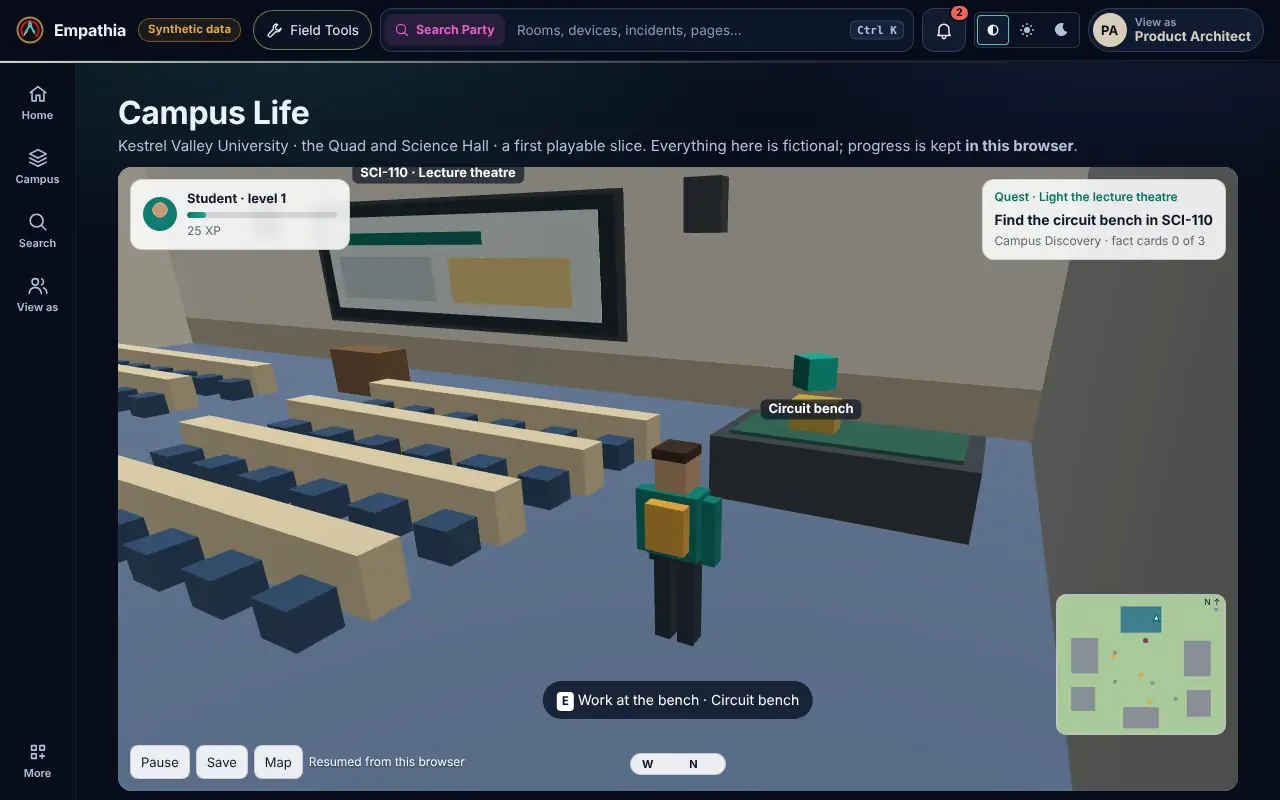
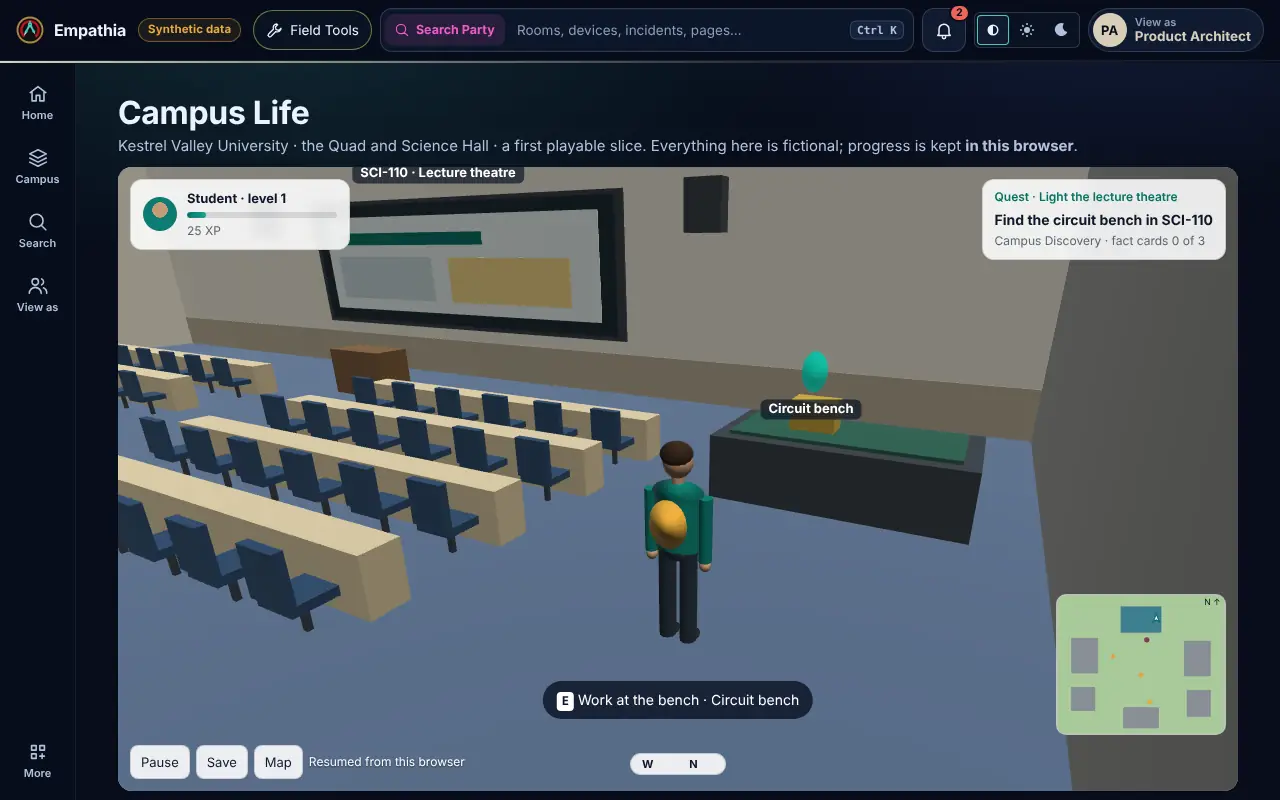
Campus Life looks less like a prototype: rounded people, round trees, lamps and fountain, chairs with backs (task #215, first pass)
Founder, 18 Nov 2026, 09:51: "proper character models and animations … richer lecture theatre details … landscaping".
- play/gl.ts: smooth spheres and cylinders (baked, or as unit meshes drawn with a matrix), each triangle wound by its normal
- people: rounded hips, body, shoulders, head and hair; limbs as tubes with hands and shoes that follow the swing
- the Quad: trees of three overlapping crowns on round trunks, round lamp posts with glowing globes, a round fountain column and
  bowl; collisions unchanged (the same solids)
- SCI-110: chairs with seats, backs and stems; the quest marker a glowing gem; Professor Calder no longer stands behind a lamp
- the game keeps real time down to 10 frames a second (its step was capped at 20); CL-02 now measures walking and running pace
  while the keys are held (frame-rate independent) as well as the ground covered
- the website's capture of Campus Life (and the others) retaken; PROVENANCE.json updated

Verified: demo-campus-life 18/18 light and dark (twice in light); demo-stadium-live 14/14; demo-expo-live 12/12; website 255/0.

Claude-Session: https://claude.ai/code/session_01RMXk1jVqvE4J2bVn1EY9vx

Changed region(s): [[0.0938, 0.4375, 0.5625, 0.8125], [0.0938, 0.625, 0.2812, 0.8125], [0.5938, 0.4375, 0.6562, 0.5]]

diff --git a/apps/demo/src/play/world.ts b/apps/demo/src/play/world.ts
@@ -6,7 +6,9 @@
  * Solids are what a person cannot walk through (walls, furniture, trees, the closed door); `roof` boxes are hidden while the player is
  * inside, so the camera sees in. The world's edge is a hedge and a hard boundary.
  */
-import type { Box, V3 } from './gl.js';
+import { cylinderVerts, sphereVerts, type Box, type V3 } from './gl.js';
+/** round things (trees, lamps, the fountain) baked as smooth geometry beside the boxes */
+export const round: number[] = [];
 
 export interface Solid { min: V3; max: V3; id: string }
 export interface Thing { id: string; kind: 'npc' | 'card' | 'bench' | 'door' | 'screen' | 'sign'; at: [number, number]; r: number; label: string; prompt: string }
@@ -32,7 +34,7 @@ add([-22, 0.015, -16], [22, 0.035, -14], C.path); add([-22, 0.015, 14], [22, 0.0
 add([-4, 0.02, -24], [4, 0.04, -20], C.stone);   // the Science Hall forecourt
 // the fountain at the Quad's centre: a ring of stone and still water
 add([-3, 0, -3], [3, 0.6, -2.4], C.stone, { solid: 'fountain' }); add([-3, 0, 2.4], [3, 0.6, 3], C.stone, { solid: 'fountain' }); add([-3, 0, -2.4], [-2.4, 0.6, 2.4], C.stone, { solid: 'fountain' }); add([2.4, 0, -2.4], [3, 0.6, 2.4], C.stone, { solid: 'fountain' });
-add([-2.4, 0, -2.4], [2.4, 0.4, 2.4], '#4E8FB0', { solid: 'fountain' }); add([-0.4, 0, -0.4], [0.4, 1.8, 0.4], C.stone, { solid: 'fountain' });
+add([-2.4, 0, -2.4], [2.4, 0.4, 2.4], '#4E8FB0', { solid: 'fountain' }); solids.push({ min: [-0.4, 0, -0.4], max: [0.4, 1.8, 0.4], id: 'fountain' }); cylinderVerts(0, 0, 0.35, 0.35, 0, 1.6, C.stone, round, 12); cylinderVerts(0, 0, 1.0, 1.0, 1.4, 1.55, C.stone, round, 16); sphereVerts([0, 1.85, 0], [0.3, 0.3, 0.3], C.stone, round);
 
 // Science Hall: walls with a doorway in the front, a lobby, an inner wall with an open way into SCI-110
 const H = HALL; const t = 0.4;
@@ -52,7 +54,7 @@ add([2.5, 3.0, H.inner - 0.2], [5.5, 4.2, H.inner + 0.2], C.wall, { solid: 'inne
 // SCI-110, the lecture theatre: carpet, rows of desks and seats, the lectern, the projection screen, loudspeakers and a camera, the circuit bench
 add([H.x0 + t, 0.05, H.z0 + t], [H.x1 - t, 0.07, H.inner - 0.2], C.carpet);
 for (let row = 0; row < 4; row++) { const z = -32.5 - row * 1.7 + 0; for (const [a, b] of [[-11, -2.5], [1.5, 8]] as Array<[number, number]>) {
-  add([a, 0, z - 0.35], [b, 0.75, z + 0.1], C.desk, { solid: 'desk' }); for (let x = a + 0.6; x < b; x += 1.1) add([x - 0.25, 0, z + 0.25], [x + 0.25, 0.48, z + 0.7], C.seat);
+  add([a, 0, z - 0.35], [b, 0.75, z + 0.1], C.desk, { solid: 'desk' }); for (let x = a + 0.6; x < b; x += 1.1) { add([x - 0.24, 0.38, z + 0.22], [x + 0.24, 0.48, z + 0.66], C.seat); add([x - 0.24, 0.48, z + 0.6], [x + 0.24, 1.0, z + 0.7], C.seat); add([x - 0.03, 0, z + 0.4], [x + 0.03, 0.38, z + 0.46], C.metal); }
 } }
 add([-1.2, 0, -39.4], [0.4, 1.1, -38.6], C.bench, { solid: 'lectern' });
 add([-5, 1.4, -41.5], [5, 4.4, -41.45], C.screen); add([-4.6, 1.7, -41.45], [4.6, 4.1, -41.42], '#E9F1F4'); add([-4.2, 3.4, -41.42], [1.2, 3.7, -41.4], '#0A7268'); add([-4.2, 2.0, -41.42], [-0.6, 3.1, -41.4], '#C7D7DE'); add([0.0, 2.0, -41.42], [3.8, 3.1, -41.4], '#F2D58A'); add([-5.2, 1.3, -41.55], [5.2, 4.5, -41.5], C.metal);
@@ -79,17 +81,18 @@ signs.push({ at: [0, 7.9, -23.6], text: 'Science Hall', sub: 'SCI-110 lecture th
   { at: [0, 8.6, 27.6], text: 'Student Union', sub: 'dining · societies · shuttle' }, { at: [-31.6, 6, 22], text: 'Arts Hall', sub: 'opens in a later release' }, { at: [31.6, 8, 25], text: 'Residence Court', sub: 'opens in a later release' });
 
 // trees, benches and lamps around the Quad; the hedge at the edge
-const tree = (x: number, z: number, s = 1) => { add([x - 0.25, 0, z - 0.25], [x + 0.25, 2.2 * s, z + 0.25], C.trunk, { solid: 'tree' }); add([x - 1.6 * s, 2 * s, z - 1.6 * s], [x + 1.6 * s, 3.6 * s, z + 1.6 * s], C.leaf); add([x - 1.1 * s, 3.5 * s, z - 1.1 * s], [x + 1.1 * s, 4.6 * s, z + 1.1 * s], C.leaf2); };
+const tree = (x: number, z: number, s = 1) => { solids.push({ min: [x - 0.25, 0, z - 0.25], max: [x + 0.25, 2.2 * s, z + 0.25], id: 'tree' }); cylinderVerts(x, z, 0.22 * s, 0.22 * s, 0, 2.6 * s, C.trunk, round, 10, false);
+  const k = ((x * 7 + z * 13) % 3 + 3) % 3; sphereVerts([x, 3.4 * s, z], [1.9 * s, 1.5 * s, 1.9 * s], k ? C.leaf : C.leaf2, round); sphereVerts([x + 0.7 * s, 4.2 * s, z - 0.4 * s], [1.3 * s, 1.1 * s, 1.3 * s], k ? C.leaf2 : C.leaf, round); sphereVerts([x - 0.8 * s, 3.9 * s, z + 0.6 * s], [1.1 * s, 0.95 * s, 1.1 * s], '#6AA857', round); };
 for (const [x, z] of [[-18, -10], [-18, 10], [18, -10], [18, 10], [-8, -11], [8, 11], [-26, 20], [26, -22], [-26, -24], [24, 22], [-40, 40], [40, 40], [-52, -40], [52, -40], [14, -30], [-20, -30]] as Array<[number, number]>) tree(x, z, 0.9 + ((x * 7 + z * 13) % 5 + 5) % 5 * 0.06);
 const benchAt = (x: number, z: number, along: 'x' | 'z') => along === 'x' ? add([x - 1, 0, z - 0.3], [x + 1, 0.5, z + 0.3], C.bench, { solid: 'bench-seat' }) : add([x - 0.3, 0, z - 1], [x + 0.3, 0.5, z + 1], C.bench, { solid: 'bench-seat' });
 benchAt(-8, -5, 'x'); benchAt(8, 5, 'x'); benchAt(-12, 6, 'z'); benchAt(12, -6, 'z');
-for (const [x, z] of [[-3, -18], [3, -18], [-3, 10], [3, 10], [-14, 3], [14, -3]] as Array<[number, number]>) { add([x - 0.08, 0, z - 0.08], [x + 0.08, 3.6, z + 0.08], C.metal, { solid: 'lamp' }); add([x - 0.25, 3.6, z - 0.25], [x + 0.25, 3.9, z + 0.25], '#F2E7C4'); }
+for (const [x, z] of [[-3, -18], [3, -18], [-3, 10], [3, 10], [-14, 3], [14, -3]] as Array<[number, number]>) { solids.push({ min: [x - 0.08, 0, z - 0.08], max: [x + 0.08, 3.6, z + 0.08], id: 'lamp' }); cylinderVerts(x, z, 0.07, 0.07, 0, 3.6, C.metal, round, 8); cylinderVerts(x, z, 0.16, 0.16, 0, 0.35, C.metal, round, 8); sphereVerts([x, 3.85, z], [0.26, 0.26, 0.26], '#F7EED2', round); }
 add([WORLD.minX, 0, WORLD.minZ - 1], [WORLD.maxX, 1.1, WORLD.minZ], C.hedge, { solid: 'edge' }); add([WORLD.minX, 0, WORLD.maxZ], [WORLD.maxX, 1.1, WORLD.maxZ + 1], C.hedge, { solid: 'edge' });
 add([WORLD.minX - 1, 0, WORLD.minZ], [WORLD.minX, 1.1, WORLD.maxZ], C.hedge, { solid: 'edge' }); add([WORLD.maxX, 0, WORLD.minZ], [WORLD.maxX + 1, 1.1, WORLD.maxZ], C.hedge, { solid: 'edge' });
 
 /** the Science Hall door: two leaves that slide apart; solid while closed */
 export const DOOR = { x0: H.door[0], x1: H.door[1], z: H.z1 - t / 2, h: 3.2, color: '#2C4E57' };
-export const NPC = { x: 3.2, z: -18.5, yaw: Math.PI * 0.85, name: 'Professor Ines Calder', role: 'Circuits and Signals, Science Hall', colors: { body: '#7A3E5C', legs: '#2E3440', skin: '#B98A6B', hair: '#2B2321' } };
+export const NPC = { x: 4.0, z: -19.0, yaw: Math.PI * 0.85, name: 'Professor Ines Calder', role: 'Circuits and Signals, Science Hall', colors: { body: '#7A3E5C', legs: '#2E3440', skin: '#B98A6B', hair: '#2B2321' } };
 export const CARDS: Array<{ id: string; at: [number, number]; title: string; fact: string }> = [
   { id: 'fountain', at: [0, 5.5], title: 'The Quad fountain', fact: 'Kestrel Valley’s fountain is fed by rainwater from the Science Hall roof. (A fictional campus fact.)' },
   { id: 'oak', at: [-19.5, -7.5], title: 'The founders’ trees', fact: 'Each tree on the Quad was planted by a graduating class. The oldest stands by the library path. (Fictional.)' },

diff --git a/apps/demo/src/play/CampusLife.tsx b/apps/demo/src/play/CampusLife.tsx
@@ -10,7 +10,7 @@
  */
 import { useCallback, useEffect, useMemo, useRef, useState, type PointerEvent as RPE, type ReactElement } from 'react';
 import { Renderer, boxVerts, hex, m4, type M4, type V3 } from './gl.js';
-import { boxes, CARDS, DOOR, HALL, NPC, BENCH, signs, WORLD, inHall } from './world.js';
+import { boxes, round, CARDS, DOOR, HALL, NPC, BENCH, signs, WORLD, inHall } from './world.js';
 import { act, camera, fresh, fromSave, level, reach, solved, step, STAGES, toSave, type Input, type Reach, type State } from './sim.js';
 import { QUEST } from '../worlds/university/data.public.js';
 
@@ -28,18 +28,22 @@ const WALKERS: Array<{ loop: Array<[number, number]>; speed: number; phase: numb
 
 function person(r: Renderer, x: number, z: number, yaw: number, walk: number, speed: number, col: Record<string, string>, reduced: boolean, alpha = 1) {
   const sw = reduced ? 0 : Math.sin(walk) * Math.min(0.75, speed / 5); const bob = reduced ? 0 : Math.abs(Math.sin(walk)) * 0.04 * Math.min(1, speed / 3);
-  const fwd = (d: number): V3 => [x + Math.sin(yaw) * d, 0, z + Math.cos(yaw) * d]; const side = (d: number, y: number): V3 => [x + Math.cos(yaw) * d, y + bob, z - Math.sin(yaw) * d];
-  void fwd;
-  r.draw(r.unit, m4.trs([x, 1.18 + bob, z], yaw, [0.46, 0.56, 0.26]), hex(col['body']!), alpha);
-  r.draw(r.unit, m4.trs([x, 0.9 + bob, z], yaw, [0.42, 0.12, 0.24]), hex(col['legs']!), alpha);
-  r.draw(r.unit, m4.trs([x, 1.62 + bob, z], yaw, [0.27, 0.28, 0.27]), hex(col['skin']!), alpha);
-  r.draw(r.unit, m4.trs([x - Math.sin(yaw) * 0.02, 1.79 + bob, z - Math.cos(yaw) * 0.02], yaw, [0.29, 0.08, 0.29]), hex(col['hair']!), alpha);
-  if (col['bag']) r.draw(r.unit, m4.trs([x - Math.sin(yaw) * 0.19, 1.2 + bob, z - Math.cos(yaw) * 0.19], yaw, [0.34, 0.4, 0.12]), hex(col['bag']!), alpha);
-  for (const s of [-1, 1]) {
-    r.draw(r.unit, m4.limb(side(0.11 * s, 0.86), yaw, sw * s, [0.15, 0.84, 0.17]), hex(col['legs']!), alpha);
-    r.draw(r.unit, m4.limb(side(0.3 * s, 1.43), yaw, -sw * s * 0.8, [0.12, 0.56, 0.13]), hex(col['body']!), alpha);
-  }
-  r.draw(r.disc, m4.trs([x, 0.025, z], 0, [1.0, 1, 1.0]), [0.12, 0.14, 0.12], 0.3);
+  const side = (d: number, y: number): V3 => [x + Math.cos(yaw) * d, y + bob, z - Math.sin(yaw) * d]; const fwd = (d: number, y: number): V3 => [x + Math.sin(yaw) * d, y + bob, z + Math.cos(yaw) * d];
+  const body = hex(col['body']!), legs = hex(col['legs']!), skin = hex(col['skin']!), hair = hex(col['hair']!);
+  // legs and shoes, swinging from the hips
+  for (const s of [-1, 1]) { const hip = side(0.1 * s, 0.9); r.draw(r.tube, m4.limb(hip, yaw, sw * s, [0.15, 0.84, 0.16]), legs, alpha);
+    const foot: V3 = [hip[0] - Math.sin(yaw) * Math.sin(sw * s) * 0.84, 0.06, hip[2] - Math.cos(yaw) * Math.sin(sw * s) * 0.84]; r.draw(r.ball, m4.trs([foot[0] + Math.sin(yaw) * 0.05, 0.06, foot[2] + Math.cos(yaw) * 0.05], yaw, [0.15, 0.1, 0.26]), [0.16, 0.16, 0.18], alpha); }
+  // the torso: hips, a rounded body, shoulders
+  r.draw(r.ball, m4.trs(side(0, 0.93), yaw, [0.38, 0.2, 0.25]), legs, alpha);
+  r.draw(r.tube, m4.trs(side(0, 1.2), yaw, [0.42, 0.5, 0.27]), body, alpha); r.draw(r.ball, m4.trs(side(0, 1.44), yaw, [0.46, 0.18, 0.28]), body, alpha);
+  if (col['bag']) r.draw(r.ball, m4.trs(fwd(-0.18, 1.22), yaw, [0.34, 0.42, 0.16]), hex(col['bag']), alpha);
+  // arms with hands, swinging opposite the legs
+  for (const s of [-1, 1]) { const sh = side(0.25 * s, 1.43); r.draw(r.tube, m4.limb(sh, yaw, -sw * s * 0.8, [0.11, 0.56, 0.12]), body, alpha);
+    const hand: V3 = [sh[0] + Math.sin(yaw) * Math.sin(sw * s * 0.8) * 0.6, 1.43 + bob - Math.cos(sw * 0.8) * 0.6, sh[2] + Math.cos(yaw) * Math.sin(sw * s * 0.8) * 0.6]; r.draw(r.ball, m4.trs(hand, yaw, [0.1, 0.11, 0.1]), skin, alpha); }
+  // neck, head, hair
+  r.draw(r.tube, m4.trs(side(0, 1.55), yaw, [0.11, 0.1, 0.11]), skin, alpha); r.draw(r.ball, m4.trs(side(0, 1.7), yaw, [0.25, 0.28, 0.25]), skin, alpha);
+  r.draw(r.ball, m4.trs(fwd(-0.025, 1.77), yaw, [0.27, 0.2, 0.27]), hair, alpha);
+  r.draw(r.disc, m4.trs([x, 0.025, z], 0, [1.0, 1, 1.0]), [0.12, 0.14, 0.12], 0.3 * alpha);
 }
 
 export default function CampusLife() { return <CampusLifePage />; }
@@ -80,10 +84,10 @@ export function CampusLifePage() {
   // the loop
   useEffect(() => {
     let r: Renderer; try { r = new Renderer(canvas.current!); } catch (e) { setErr((e as Error).message); return; }
-    const world: number[] = [], roof: number[] = []; for (const b of boxes) boxVerts(b, b.tag === 'roof' ? roof : world);
+    const world: number[] = [], roof: number[] = []; for (const b of boxes) boxVerts(b, b.tag === 'roof' ? roof : world); for (const v of round) world.push(v);
     const W = r.mesh(world), RF = r.mesh(roof); let raf = 0; let last = performance.now(); let hudAt = 0; let frames = 0, fpsAt = last, fps = 0;
     const loop = (now: number) => {
-      raf = requestAnimationFrame(loop); const dt = Math.min(0.05, (now - last) / 1000); last = now; frames += 1; if (now - fpsAt > 1000) { fps = Math.round(frames * 1000 / (now - fpsAt)); frames = 0; fpsAt = now; }
+      raf = requestAnimationFrame(loop); const dt = Math.min(0.1, (now - last) / 1000); last = now; frames += 1; if (now - fpsAt > 1000) { fps = Math.round(frames * 1000 / (now - fpsAt)); frames = 0; fpsAt = now; }
       const k = keys.current; const inp: Input = { fwd: 0, right: 0, run: k.has('Shift') || runToggle.current, turn: 0, tilt: 0 };
       if (!frozenRef.current) {
         inp.fwd = (k.has('w') || k.has('ArrowUp') ? 1 : 0) - (k.has('s') || k.has('ArrowDown') ? 1 : 0); inp.right = (k.has('d') ? 1 : 0) - (k.has('a') ? 1 : 0);
@@ -108,7 +112,7 @@ export function CampusLifePage() {
       const bobT = reducedRef.current ? 0 : Math.sin(now / 400) * 0.12;
       for (const c of CARDS) if (!s.cards.includes(c.id)) r.draw(r.unit, m4.trs([c.at[0], 1.0 + bobT, c.at[1]], reducedRef.current ? 0.6 : now / 700, [0.45, 0.6, 0.06]), [0.98, 0.78, 0.22]);
       const target: V3 | null = s.stage === 'start' || s.stage === 'solved' ? [NPC.x, 2.35, NPC.z] : s.stage === 'met' ? [0, 3.8, DOOR.z + 0.6] : s.stage === 'inside' || s.stage === 'bench' ? [BENCH.x, 2.1, BENCH.z] : null;
-      if (target) r.draw(r.unit, m4.trs([target[0], target[1] + bobT, target[2]], reducedRef.current ? 0.78 : now / 500, [0.32, 0.32, 0.32]), [0.06, 0.62, 0.55]);
+      if (target) { r.glow(0.6); r.draw(r.ball, m4.trs([target[0], target[1] + bobT, target[2]], reducedRef.current ? 0.78 : now / 500, [0.26, 0.42, 0.26]), [0.06, 0.72, 0.62]); r.glow(0); }
       if (now - hudAt > 100) { hudAt = now;
         const proj = (p: V3) => { const v = [p[0], p[1], p[2], 1]; const o = [0, 0, 0, 0]; for (let i = 0; i < 4; i++) o[i] = vp[i]! * v[0]! + vp[4 + i]! * v[1]! + vp[8 + i]! * v[2]! + vp[12 + i]! * v[3]!; if (o[3]! <= 0.1) return null; const x = (o[0]! / o[3]! + 1) / 2 * cv.clientWidth, y = (1 - o[1]! / o[3]!) / 2 * cv.clientHeight; return x < -50 || x > cv.clientWidth + 50 || y < -20 || y > cv.clientHeight + 20 ? null : { x, y, d: Math.hypot(p[0] - cam.eye[0], p[2] - cam.eye[2]) }; };
         const L: Array<{ x: number; y: number; text: string; sub?: string; kind: string }> = [];

diff --git a/apps/demo/src/play/gl.ts b/apps/demo/src/play/gl.ts
@@ -96,9 +96,27 @@ export function figureVerts(x: number, y: number, z: number, color: string, out:
   for (const [n, q, col] of F) for (const i of [0, 1, 2, 0, 2, 3]) { const p = q[i]!; out.push(p[0], p[1], p[2], n[0], n[1], n[2], col[0], col[1], col[2]); }
 }
 
+/** one triangle, wound so that its front faces the way `n` points (the back is culled) */
+function tri(out: number[], a: [V3, V3], b: [V3, V3], c: [V3, V3], col: V3) {
+  const u = sub(b[0], a[0]), v = sub(c[0], a[0]); const f = cross(u, v); const n: V3 = [a[1][0] + b[1][0] + c[1][0], a[1][1] + b[1][1] + c[1][1], a[1][2] + b[1][2] + c[1][2]];
+  const order = dot(f, n) >= 0 ? [a, b, c] : [a, c, b]; for (const [p, nn] of order) out.push(p[0], p[1], p[2], nn[0], nn[1], nn[2], col[0], col[1], col[2]);
+}
+/** a sphere (an ellipsoid when the radii differ), lit smoothly: latitude by longitude, baked into a static buffer */
+export function sphereVerts(c: V3, r: V3, color: string | V3, out: number[], seg = 12, rings = 8) {
+  const col = typeof color === 'string' ? hex(color) : color; const pt = (i: number, j: number): [V3, V3] => { const th = (i / seg) * Math.PI * 2, ph = (j / rings) * Math.PI; const n: V3 = [Math.sin(ph) * Math.cos(th), Math.cos(ph), Math.sin(ph) * Math.sin(th)]; return [[c[0] + n[0] * r[0], c[1] + n[1] * r[1], c[2] + n[2] * r[2]], norm([n[0] / r[0], n[1] / r[1], n[2] / r[2]])]; };
+  for (let i = 0; i < seg; i++) for (let j = 0; j < rings; j++) { const q = [pt(i, j), pt(i + 1, j), pt(i + 1, j + 1), pt(i, j + 1)]; if (j > 0) tri(out, q[0]!, q[1]!, q[2]!, col); if (j < rings - 1) tri(out, q[0]!, q[2]!, q[3]!, col); }
+}
+/** an upright cylinder (an elliptic one when the radii differ) from y0 to y1, its top closed, lit smoothly round its side */
+export function cylinderVerts(x: number, z: number, rx: number, rz: number, y0: number, y1: number, color: string | V3, out: number[], seg = 12, top = true) {
+  const col = typeof color === 'string' ? hex(color) : color; const P = (i: number): [number, number, V3] => { const a = (i / seg) * Math.PI * 2; return [x + Math.cos(a) * rx, z + Math.sin(a) * rz, norm([Math.cos(a) / rx, 0, Math.sin(a) / rz])]; };
+  for (let i = 0; i < seg; i++) { const [ax, az, an] = P(i), [bx, bz, bn] = P(i + 1); const q: Array<[V3, V3]> = [[[ax, y0, az], an], [[bx, y0, bz], bn], [[bx, y1, bz], bn], [[ax, y1, az], an]];
+    tri(out, q[0]!, q[1]!, q[2]!, col); tri(out, q[0]!, q[2]!, q[3]!, col);
+    if (top) { const up: V3 = [0, 1, 0]; tri(out, [[x, y1, z], up], [[ax, y1, az], up], [[bx, y1, bz], up], col); } }
+}
+
 export interface Mesh { vao: WebGLVertexArrayObject; n: number }
 export class Renderer {
-  gl: WebGL2RenderingContext; prog: WebGLProgram; u: Record<string, WebGLUniformLocation | null> = {}; unit: Mesh; disc: Mesh;
+  gl: WebGL2RenderingContext; prog: WebGLProgram; u: Record<string, WebGLUniformLocation | null> = {}; unit: Mesh; disc: Mesh; ball: Mesh; tube: Mesh;
   constructor(public canvas: HTMLCanvasElement) {
     const gl = canvas.getContext('webgl2', { antialias: true, alpha: false, powerPreference: 'high-performance', preserveDrawingBuffer: true }); if (!gl) throw new Error('WebGL2 is not available in this browser');
     this.gl = gl; const sh = (t: number, s: string) => { const x = gl.createShader(t)!; gl.shaderSource(x, s); gl.compileShader(x); if (!gl.getShaderParameter(x, gl.COMPILE_STATUS)) throw new Error(gl.getShaderInfoLog(x) || 'shader'); return x; };
@@ -106,6 +124,7 @@ export class Renderer {
     this.prog = p; for (const k of ['uVP', 'uM', 'uTint', 'uUseTint', 'uSun', 'uEye', 'uFog', 'uFogNear', 'uFogFar', 'uAlpha', 'uSky', 'uGround', 'uAmb', 'uSunCol', 'uGlow', 'uGrad', 'uTint2']) this.u[k] = gl.getUniformLocation(p, k);
     gl.enable(gl.DEPTH_TEST); gl.enable(gl.CULL_FACE);
     const v: number[] = []; boxVerts({ min: [-0.5, -0.5, -0.5], max: [0.5, 0.5, 0.5], color: '#ffffff' }, v); this.unit = this.mesh(v);
+    const sb: number[] = []; sphereVerts([0, 0, 0], [0.5, 0.5, 0.5], '#ffffff', sb, 14, 10); this.ball = this.mesh(sb); const tb: number[] = []; cylinderVerts(0, 0, 0.5, 0.5, -0.5, 0.5, '#ffffff', tb, 12); this.tube = this.mesh(tb);
     const d: number[] = []; const N = 20; for (let i = 0; i < N; i++) { const a = (i / N) * Math.PI * 2, b = ((i + 1) / N) * Math.PI * 2; d.push(0, 0, 0, 0, 1, 0, 0, 0, 0, Math.cos(b) * 0.5, 0, Math.sin(b) * 0.5, 0, 1, 0, 0, 0, 0, Math.cos(a) * 0.5, 0, Math.sin(a) * 0.5, 0, 1, 0, 0, 0, 0); } this.disc = this.mesh(d);
   }
   mesh(v: number[]): Mesh {
